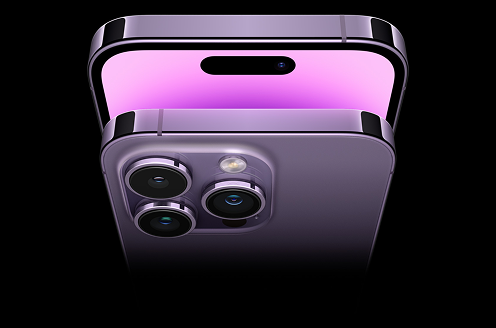
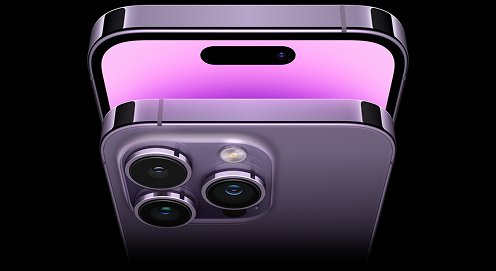
Fix Issue

Changed region(s): [[0.1815, 0.0, 0.8468, 0.9151]]

diff --git a/src/Components/Home/Banner.jsx b/src/Components/Home/Banner.jsx
@@ -14,8 +14,8 @@ import styled from 'styled-components';
 
 
 import Iphonerimg from "../../images/Bannerimg.png";
-import Samsungimg from "../../images/samsungbanner.jpg";
-import Oneplusimg from "../../images/oneplusbanner.jpg";
+import Samsungimg from "../../images/samsungbanner.png";
+import Oneplusimg from "../../images/oneplusbanner.png";
 import AppleIcon from "@mui/icons-material/Apple";
 import AndroidIcon from "@mui/icons-material/Android";
 import SmartphoneIcon from "@mui/icons-material/Smartphone";
@@ -114,15 +114,15 @@ export default function Banner() {
                     sx={{
                       width: {
                         xs: "100%",
-                        md: "80%",
+                        md: "100%",
                         lg: "100%",
                       },
                       height: {
                         xs: "100%",
-                        md: "80%",
+                        md: "100%",
                         lg: "100%",
                       },
-                      objectFit: "cover",
+                      // objectFit: "cover",
                     }}
                   />
                 </Grid>

diff --git a/vite.config.js b/vite.config.js
@@ -1,23 +1,20 @@
 import { defineConfig } from 'vite'
 import react from '@vitejs/plugin-react'
 
-// https://vite.dev/config/
 export default defineConfig({
   plugins: [react()],
   server: {
-    host: '0.0.0.0', // Listen on all network interfaces
-    port: 5173,      // Optional: specify the port
+    host: '0.0.0.0',
+    port: 5173,
   },
-   build: {
+  build: {
     rollupOptions: {
-      external: ['lottie-web']
-    },
-     output: {
+      output: {
         manualChunks: {
           react: ['react', 'react-dom'],
-          lottie: ['lottie-web'],
-          vendor: ['react-router-dom', 'styled-components']
+          vendor: ['react-router-dom', 'styled-components', 'lottie-react']
         }
       }
+    }
   }
 })
